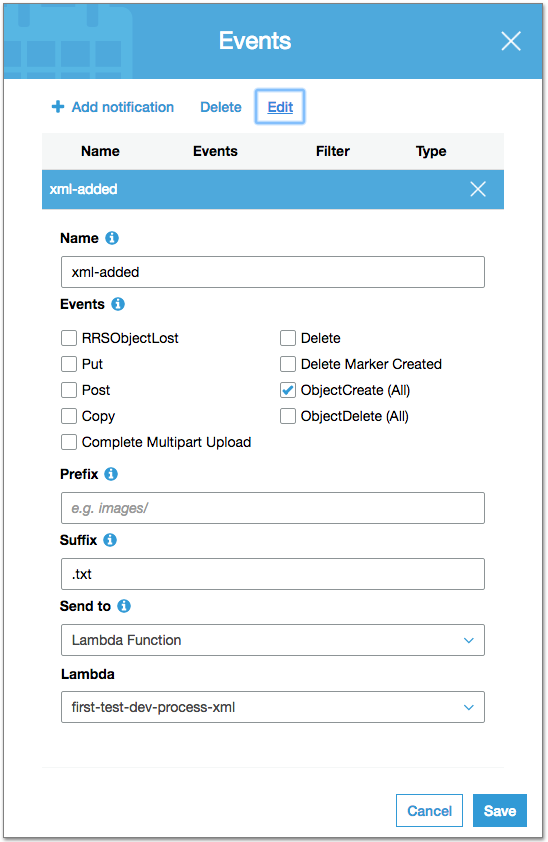
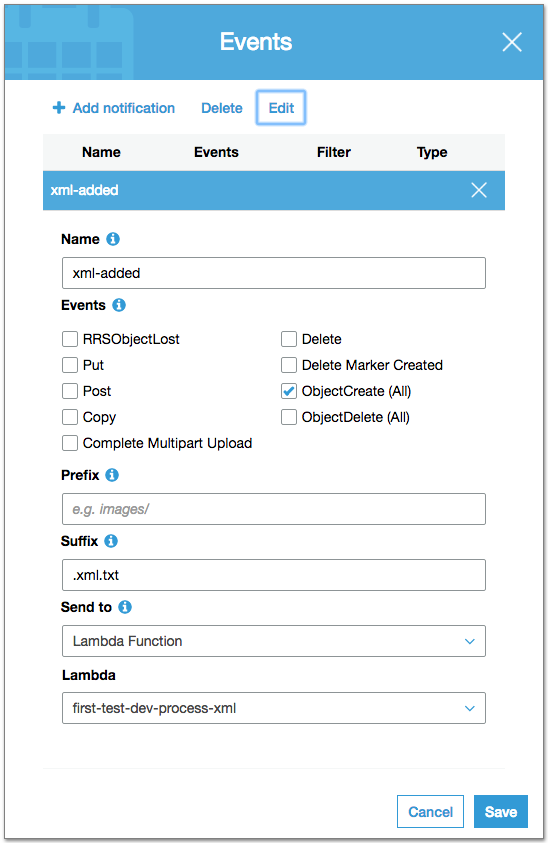
updated docs to show change in file suffix on s3 event setup

diff --git a/README.md b/README.md
@@ -196,7 +196,7 @@
    - Log into the AWS S3 console, and create 2 new buckets. I called mine 'first-xml' and 'first-xml-archived'
    - Setup the 'first-xml' bucket to signal to the Lambda function when objects are added. Click on the bucket, then click on the 'properties' tab, then click on the 'events' box. My setup is below: 
    ![s3-event](./docs-images/s3-event.png "s3-event-config-box")
-   - Note the 'ObjectCreate (All)' setting - this will fire the Lambda function for every file added, but only if it matched the 'Suffux' setting (in this case .txt).
+   - Note the 'ObjectCreate (All)' setting - this will fire the Lambda function for every file added, but only if it matched the 'Suffux' setting (in this case '.xml.txt').
 9. I setup a new user that only has access to the AWS Console to list and add files to the 'first-xml' bucket, and list and download files in the 'first-xml-archive' bucket, with the following custom policy, determined by following the instructions [here](http://docs.aws.amazon.com/AmazonS3/latest/dev/example-policies-s3.html)
     ```json
     {
